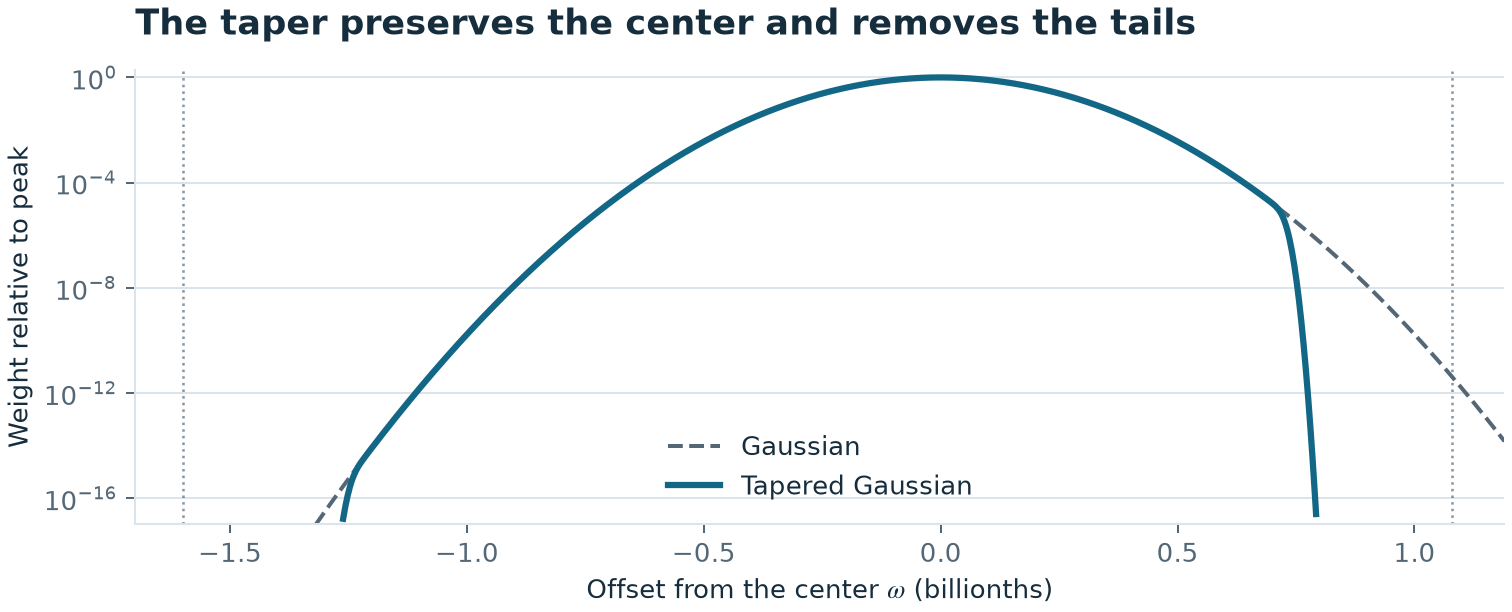
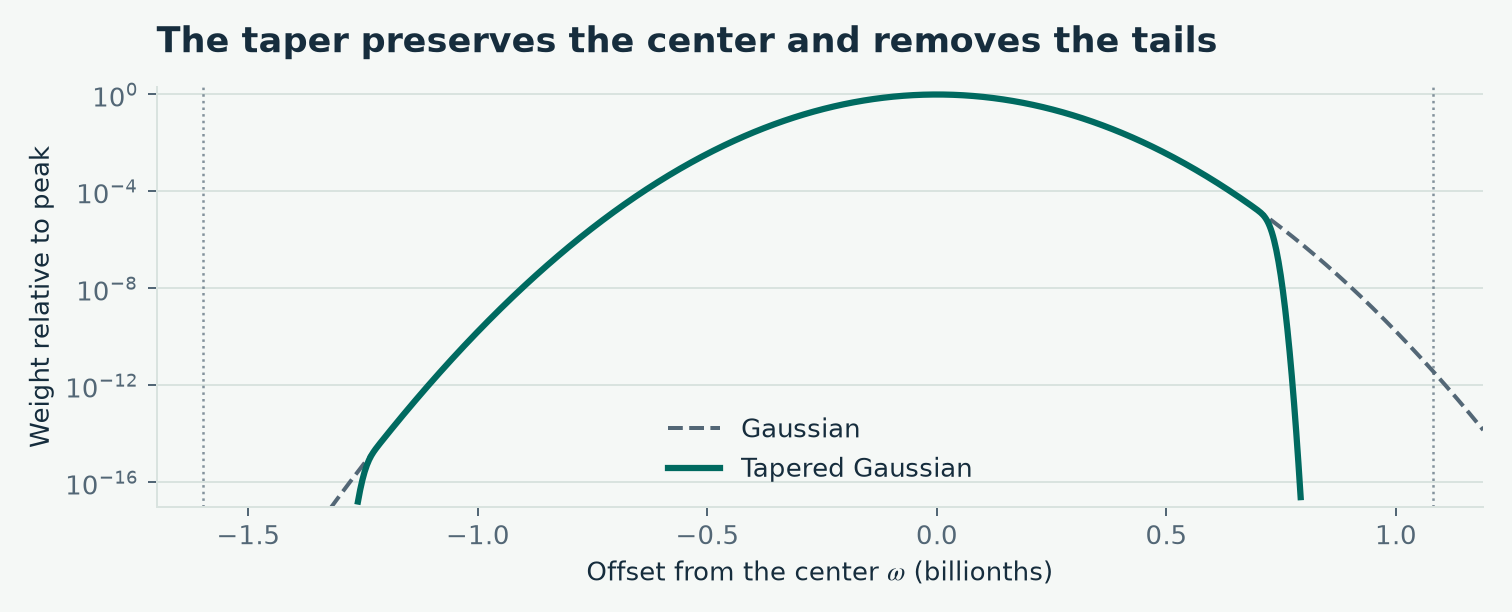
Redesign the Skewes research landing page

Changed region(s): [[0.0, 0.0931, 0.9947, 0.9935], [0.0933, 0.0, 0.8082, 0.0931], [0.3419, 0.4036, 0.373, 0.4657]]

diff --git a/plot_figures.py b/plot_figures.py
@@ -16,8 +16,9 @@ from tapered import (
 FIGURES = Path(__file__).resolve().parent / "figures"
 INK = "#162d3d"
 MUTED = "#536776"
-BLUE = "#126786"
-GRID = "#dbe4ea"
+BLUE = "#006a60"
+GRID = "#d9e3df"
+PAPER = "#f5f8f6"
 
 
 def crossover_intervals():
@@ -26,22 +27,44 @@ def crossover_intervals():
     smith = [float((Decimal(endpoint) - center) * scale)
              for endpoint in ("727.9513353997", "727.9513354023")]
     tapered = [-float(Decimal(LEFT_WIDTH) * scale), float(Decimal(RIGHT_WIDTH) * scale)]
-    figure = Figure(figsize=(8.4, 3.05), layout="constrained")
-    ax = figure.subplots()
-    ax.set_title("Where a crossover is guaranteed to occur", loc="left", pad=14)
-    for y, interval, color in ((1, smith, MUTED), (0, tapered, BLUE)):
+    background = "#101f24"
+    white = "#f1f7f3"
+    previous = "#9fb1b8"
+    accent = "#80ecc6"
+    figure = Figure(figsize=(10, 4.75), facecolor=background)
+    figure.text(0.06, 0.89, "The Skewes crossover", fontfamily="DejaVu Serif",
+                fontsize=31, color=white, va="center")
+    figure.text(0.061, 0.78, "An earlier upper bound for the first prime-counting crossover",
+                fontsize=12, color=previous, va="center")
+    figure.add_artist(mpl.lines.Line2D([0.06, 0.94], [0.71, 0.71],
+                                     transform=figure.transFigure, color="#32474e"))
+    ax = figure.add_axes((0.06, 0.25, 0.88, 0.39), facecolor=background)
+    for y, interval, color in ((1, smith, previous), (0, tapered, accent)):
         left, right = interval
-        ax.hlines(y, left, right, linewidth=3.5, color=color, zorder=3)
-        ax.plot([left, right], [y, y], "o", markersize=6, color=color, zorder=4)
-        ax.axvline(right, color=color, linewidth=1, linestyle=":", alpha=0.65)
-    ax.set(ylim=(-0.58, 1.43), xlim=(-1.83, 1.53), yticks=[1, 0],
-           yticklabels=["Smith (2016)\nAssuming RH", "Tapered Gaussian\nFinite verification"],
-           xlabel=r"Offset from $\log x = 727.951335401$ (billionths)")
-    ax.text(1.19, 0.49, "0.22 earlier", ha="right", va="center", color=BLUE,
-            fontsize=9.5, bbox={"facecolor": "white", "edgecolor": "none", "pad": 2})
-    ax.grid(axis="x", color=GRID)
-    ax.tick_params(axis="y", length=0, pad=8)
-    ax.spines[["top", "right", "left"]].set_visible(False)
+        ax.hlines(y, left, right, linewidth=3, color=color, zorder=3)
+        ax.plot(left, y, "o", markersize=5, color=color, zorder=4)
+        ax.plot(right, y, "o", markersize=8, markeredgewidth=1.8,
+                markerfacecolor=background, markeredgecolor=color, zorder=4)
+    ax.text(-1.70, 1.25, "Smith · 2016", fontsize=12, color=previous)
+    ax.text(-1.70, 0.25, "Tapered Gaussian · candidate", fontsize=12, color=accent)
+    ax.annotate("", xy=(tapered[1], 0.51), xytext=(smith[1], 0.51),
+                arrowprops={"arrowstyle": "->", "color": accent, "lw": 1.4,
+                            "shrinkA": 0, "shrinkB": 0})
+    for right, y, color in ((tapered[1], 0, accent), (smith[1], 1, previous)):
+        ax.vlines(right, min(0.51, y), max(0.51, y), color=color,
+                  linewidth=0.8, linestyle=":", alpha=0.8)
+    ax.text(tapered[1] - 0.07, 0.51, "0.22 billionths earlier", ha="right",
+            va="center", color=accent, fontsize=10.5,
+            bbox={"facecolor": background, "edgecolor": "none", "pad": 2})
+    ax.set(ylim=(-0.43, 1.51), xlim=(-1.73, 1.49), yticks=[],
+           xticks=[-1.5, -1, -0.5, 0, 0.5, 1])
+    ax.set_xlabel(r"Offset from $\log x = 727.951335401$ (billionths)",
+                  color=previous, labelpad=12)
+    ax.grid(axis="x", color="#32474e", alpha=0.7)
+    ax.tick_params(axis="x", colors=previous, length=0, pad=6)
+    ax.spines[:].set_visible(False)
+    figure.text(0.06, 0.065, "DOMINIC BAVUSO", fontsize=9, fontweight="bold", color=white)
+    figure.text(0.94, 0.065, "NOVEMBER 2026", fontsize=9, color=previous, ha="right")
     return figure
 
 
@@ -60,8 +83,10 @@ def taper_profile():
     floor = 1e-17
     weight = gaussian * taper
 
-    figure = Figure(figsize=(8.4, 3.4), layout="constrained")
+    figure = Figure(figsize=(8.4, 3.4), layout="constrained", facecolor=PAPER)
+    figure.get_layout_engine().set(w_pad=0.16, h_pad=0.14)
     ax = figure.subplots()
+    ax.set_facecolor(PAPER)
     ax.set_title("The taper preserves the center and removes the tails", loc="left", pad=14)
     ax.plot(s, gaussian, color=MUTED, linestyle="--", linewidth=1.6, label="Gaussian")
     ax.plot(s, np.where(weight >= floor, weight, np.nan), color=BLUE, linewidth=2.5,

diff --git a/README.md b/README.md
@@ -1,42 +1,46 @@
-# An upper bound for the first prime-counting crossover
+![The Skewes crossover. A comparison of the two intervals highlights that the tapered Gaussian candidate moves the right endpoint 0.22 billionths earlier on the log scale.](figures/crossover-intervals.png)
 
 **Dominic Bavuso** · November 2026
 
-Let $\pi(x)$ count the primes up to $x$, and let $\operatorname{li}(x)$ be the logarithmic integral, an estimate for that count. The first crossover is the smallest $x$ for which $\pi(x)>\operatorname{li}(x)$.
+[Read the proof](tapered-bound.md) · [Reproduce the calculation](#reproduce-the-calculation) · [Explore the search](experiments.md)
 
-## Main result
+## The result
 
-Using the published zero sum of Smith and Platt, the calculation establishes that $\pi(x)>\operatorname{li}(x)$ for some $x$ satisfying
+Let $\pi(x)$ count the primes up to $x$, and let $\operatorname{li}(x)$ be the logarithmic integral, a smooth estimate of that count. How early can we prove the actual count overtakes the estimate?
+
+Using the published zero sum of Smith and Platt, the tapered Gaussian argument gives a point with $\pi(x)>\operatorname{li}(x)$ in the interval
 
 $$
-\boxed{727.95133539940\;\leq\;\log x\;\leq\;727.95133540208.}
+\boxed{727.95133539940 \;\leq\; \log x \;\leq\; 727.95133540208.}
 $$
 
-The upper endpoint is $2.2\times10^{-10}$ lower on the log scale than Smith’s thesis endpoint. The argument uses Platt and Trudgian’s verification of zeta zeros through height $3\times10^{12}$ and bounds the contribution from higher zeros directly. [Smith, Theorem 9.1](https://etheses.whiterose.ac.uk/id/eprint/16409/) · [Platt and Trudgian, Theorem 1](https://arxiv.org/abs/2004.09765)
+The right endpoint moves the upper bound for the first crossover earlier by $2.2\times10^{-10}$ on the log scale compared with Smith’s 2016 thesis. The argument uses the verified locations of zeta zeros through height $3\times10^{12}$ and bounds the contribution of higher zeros. [Smith, Theorem 9.1](https://etheses.whiterose.ac.uk/id/eprint/16409/) · [Platt and Trudgian, Theorem 1](https://arxiv.org/abs/2004.09765)
 
-![Two existence intervals on the log scale. The tapered Gaussian interval ends 0.22 billionths earlier than Smith’s.](figures/crossover-intervals.png)
+> [!NOTE]
+> **Verification status.** The interval replay passes using the published sum. An independent reconstruction of that sum, external review of the derivation, and a literature priority check remain open. The exact first crossover is unknown.
 
-*Each bar marks an interval containing a point where the prime count exceeds the estimate. The right endpoint therefore gives an upper bound for the first such point.*
+## How the bound works
 
-## Method and verification
+The proof takes a weighted average of the difference between the real and estimated prime counts, rescaled by $\log(x)/\sqrt{x}$. The weight is nonnegative and fades smoothly to zero at both endpoints. The taper preserves most of the Gaussian zero sum and controls the contribution of very high zeros. A positive average forces at least one point in the interval to have $\pi(x)>\operatorname{li}(x)$. [Derivation and taper figure](tapered-bound.md) · [Revers’s explicit formula](https://arxiv.org/html/2501.04488v2#S4)
 
-The calculation averages the difference between the actual and estimated prime counts after scaling it by $\log(x)/\sqrt{x}$. A nonnegative weight tapers to zero at the two ends of the interval. This preserves most of the published Gaussian sum and limits the contribution of zeros above the verified height. The resulting weighted integral has a certified lower bound of $3.26\times10^{-5}$ using the cited numerical input. [Research note and derivation](tapered-bound.md) · [Revers’s explicit formula](https://arxiv.org/html/2501.04488v2#S4)
+## Reproduce the calculation
 
-Run the interval check with Python 3.12 and `mpmath`. The published zero sum is supplied as a constant, so the replay requires no zero-table downloads.
+With Python 3.12, run the interval replay to check the error budget against the published zero sum. It requires no zero-table downloads and certifies a positive margin greater than $3.26\times10^{-5}$ from the cited inputs.
 
-```sh
+~~~sh
 python -m pip install mpmath
 python tapered.py
-```
+~~~
 
-The arithmetic has been checked with interval arithmetic and exact rational bounds. Independent review of the derivation, the original 103.8-billion-zero computation, and literature priority remains open. The exact first crossover is unknown.
+The full audit sums **103,800,788,359** archived zeta zeros with an independent implementation. It verifies each input file and saves a checkpoint after processing it. [Full audit instructions](audit.md) · [LMFDB zero archive](https://www.lmfdb.org/zeros/zeta/)
 
-The [independent replay](audit.md) checks the original zero sum from the LMFDB files and can resume at any completed file.
+## Research notes
 
-## Finding the first crossover
+| Note | What it covers |
+| :--- | :--- |
+| [Tapered Gaussian bound](tapered-bound.md) | The weight, the error estimates, and the endpoint comparison |
+| [Independent numerical audit](audit.md) | Archive checks, arithmetic error bounds, and the resumable replay |
+| [Earlier crossover search](experiments.md) | A candidate at $\log x\approx727.951332982$ and the results from 158.2 million zeros |
+| [Lower-bound calculation](lower-bound.md) | A finite sieve excludes a short interval immediately above $10^{20}$ |
 
-An upper bound gives a deadline by which a crossover has occurred. Identifying the first crossover also requires ruling out every earlier value. A finite sieve check excludes a short interval immediately above $10^{20}$, the lower endpoint reached by existing work. The gap between this range and the upper bound near $10^{316}$ remains open. [Lower-bound calculation](lower-bound.md)
-
-## Next experiment
-
-The earlier candidate at $\log x\approx727.951332982$ remains unresolved. A search over 158.2 million zeros recovered a known positive control, while the earlier signal stayed below the threshold in the tested configurations. Smith reports a stronger signal from roughly 100 billion zeros, and its raw sum and parameters are still needed for a replay. [Search results and reproduction commands](experiments.md) · [Smith, Section 10](https://etheses.whiterose.ac.uk/16409/1/The%20hunt%20for%20Skewes%27%20number.pdf)
+Finding the exact first crossover would require excluding every earlier value. The gap between the verified lower range and the upper bound near $10^{316}$ remains open.
